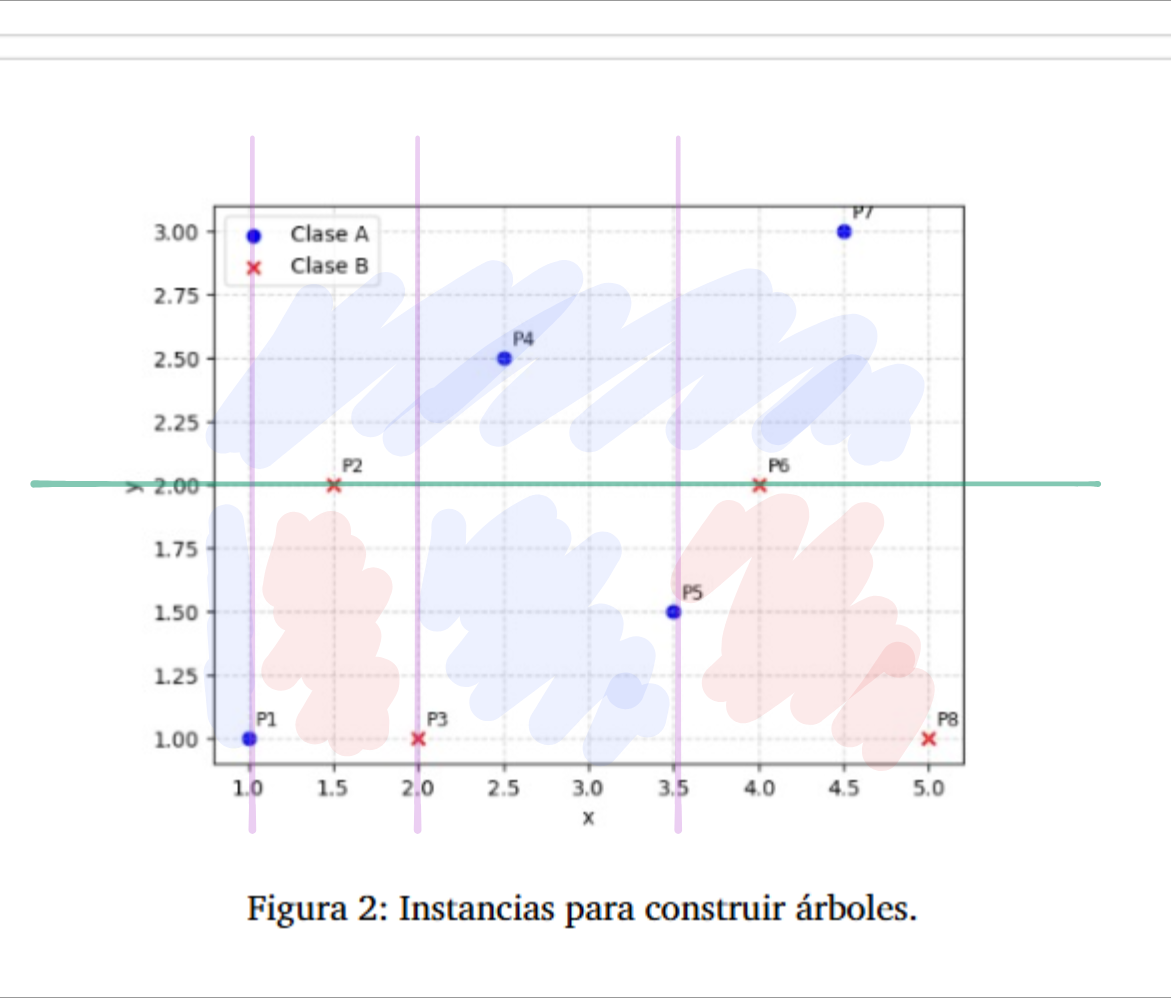
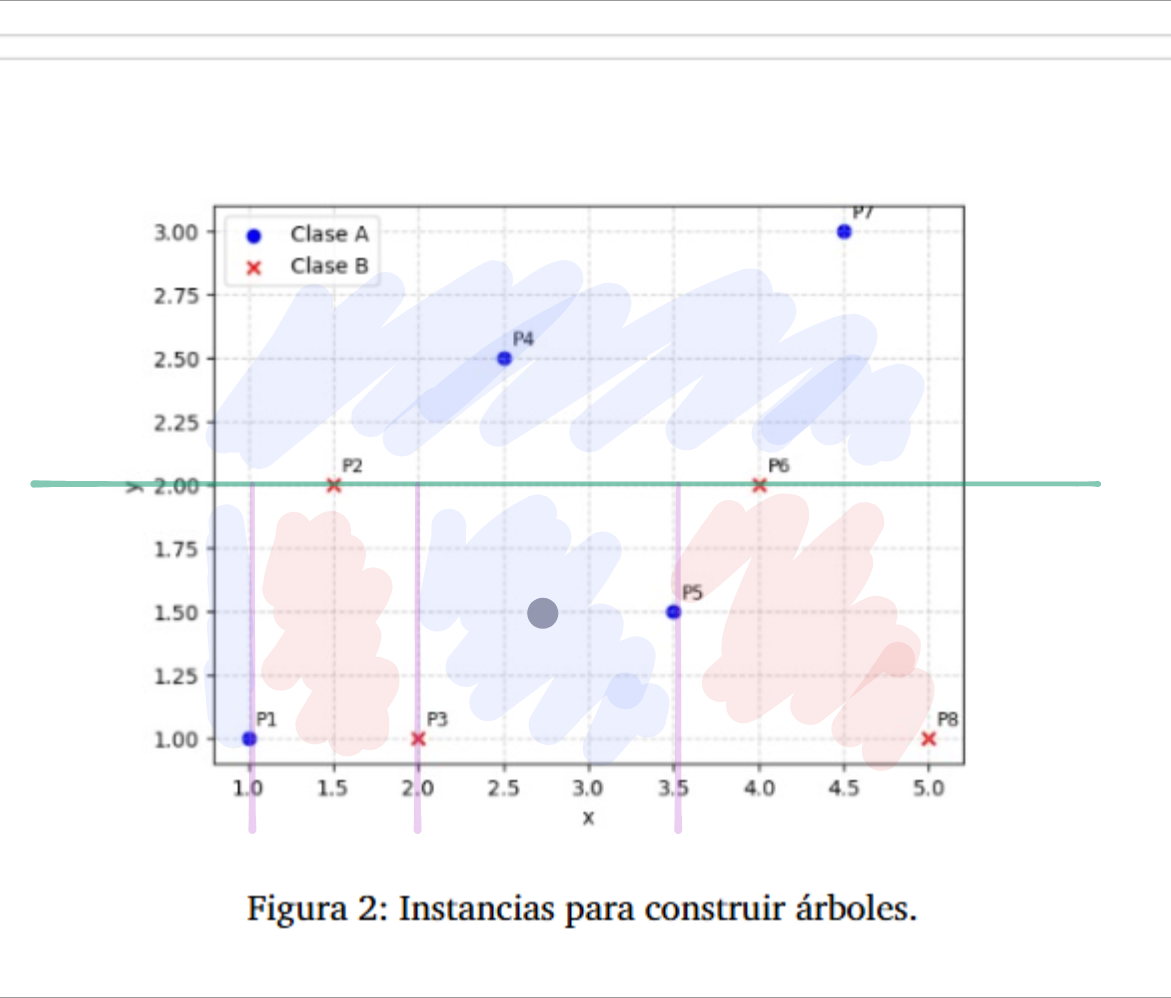
chore(guia-3) :tada: hecho todos los ejercicios practicos de la guia (falta notebooks)

Changed region(s): [[0.5534, 0.1553, 0.5841, 0.4659], [0.3382, 0.1553, 0.3689, 0.4659], [0.4304, 0.5902, 0.4919, 0.6523]]

diff --git a/guias/3/practica3.md b/guias/3/practica3.md
@@ -297,3 +297,119 @@ $\lceil log_2(1000) \rceil = 10$
 
 - Los tipos de atributos, si son continuos o discretos. 
 - Si se obtiene una buena performance sin necesidad de tener un nodo por "grupo", la altura sería menor.
+
+## Ejercicio 6
+
+### a
+
+Falso. El objetivo es encontrar el mejor clasificador. Las hojas si van a tener el valor de la clase que se está clasificando.
+Sobre la altura del árbol, que sea el más corto es parte del sesgo inductivo de la busqueda del árbol: entre 2 árboles que clasifican un conjunto de datos de la misma forma, se preferirá el más corto (siguiendo el algoritmo visto en clase).
+
+
+### b
+
+Falso. Hacen una exploración greedy donde van eligiendo en cada paso un par (atributo, valor) en el caso continuo o atributo en el caso discreto que mejor separe a los datos siguiendo cierta medida de homogeneidad (entropía, gini, etc), y sin backtracking. Por lo tanto no se recorren todos los árboles posibles, pero un subconjunto de ellos.
+
+### c
+
+Verdadero para el caso de todos los atributos con valores discretos. Falso para el caso continuo, donde se permite hacer cortes en varios valores del atributo.
+
+### d
+
+Verdadero. Volver a usar el mismo corte en una rama no va a dividir los datos.
+
+### e
+
+Si con "criterio de corte" se refiere a cuando terminar el algoritmo de busqueda, Verdadero siempre y cuando los datos de entrenamiento no tengan errores/ruido. 
+Por ejemplo no se tiene un valor máximo para la altura del árbol, entonces se puede overfittear perfectamente los datos de entranmiento.
+
+(Leyendo la siguiente pregunta, se podría poner falso aca ya que no se debe asumir nada sobre los datos de entrenamiento)
+
+### f
+
+Verdadero.
+
+## Ejercicio 7
+
+Las hojas del árbol guardan la porción de los datos de entrenamiento que caerían en dicha hoja (junto a sus etiquetas).
+
+Dada una nueva instancia, se recorre el árbol para obtener la predicción de clasificación. Al llegar a la hoja se tiene algún criterio para elegir la clase, por ejemplo votación de mayoria. El resultado de la votación es la clase predicha para la nueva instancia. Y se puede usar la proporción de cada clase que hubo de los datos de entrenamiento en la hoja para obtener el vector de probabilidades.
+
+Por ejemplo, 3 clases y la hoja agrupa 10 nodos: 6 clase A, 3 clase B y 1 clase C. 
+La predicción será A y con vector (6/10, 3/10, 1/10)
+
+## Ejercicio 8
+
+### a
+
+El sesgo inductivo del algoritmo de busqueda impone preferencias en la busqueda. En el caso de los algoritmos vistos en clase, se prefiere aquellos árboles que mayor ganancia de homogeneidad aportan. Y las medidas de homogeneidad vistas son entropía, gini, CER (clasification error rate). 
+Para el caso de entropía la interpretación es que se busca en cada paso el corte que maximice la ganancia de información (o reducción de entropía).
+
+### b
+
+Si, para el caso de empate en la medida de homogeneidad se debe tener un criterio de desempate. Dicho criterio aporta una preferencia de busqueda (y por lo tanto forma parte del sesgo inductivo).
+
+## Ejercicio 9
+
+### a
+
+```python
+def mejor_corte(S, A, deltaM):
+  # en este diccionario  guardaremos clave atributo, valor un par con el corte de mayor reducción de entropia y su entropia atributo: (corte, entropia)  
+  entropia_maxima_por_atributo = {}
+
+  for a in A:
+    # como los atributos son de valor continuo, definimos un recorrido discreto tomando el minimo y maximo y haciendo maximo 20 saltos.
+    a_min = min (S[a])
+    a_max = max (S[a])
+
+    valor_salto = (a_max - a_min) / 20
+
+    valor_c
+    max_reduccion = -1
+
+    for c in range(a_min, a_max, valor_salto):
+      aux = deltaM(S, (a, valor_salto))
+      if max_reduccion < aux:
+        max_reduccion = aux
+        valor_c = c
+
+    entropia_maxima_por_atributo[a] = (valor_c, max_reduccion)
+
+  # del diccionario devolvemos el par con la tupla que mayor reduccion de entropia genere
+  return atributo_con_mejor_reduccion_entropia(entropia_maxima_por_atributo)
+```
+
+### b
+
+Como en el mejor corte use entropia, en cada paso hay que calcular cuanta información se gana (infoGain) ponderado por la proporción de instancias que se separan.
+
+En este caso agregamos un paso mas luego de II. El II elige el mejor corte usando la función que definimos. Luego se podría mantener un diccionario global donde se va calculando la importancia de cada atributo
+
+```python
+importancia_por_atributo = {a: 0 for a in A}
+
+...
+
+# (II)
+(a, c) = mejor_corte(S, A, infoGain)
+
+# calculo de importancia
+
+importancia_por_atributo[a] += infoGain(S, (a,c))
+```
+
+Se puede hacer un poco más eficiente:
+- en (IV) se hace la separación proporcional al corte (a,c), con eso tenemos los tamaños de instancias nuevos.
+- En mejor_corte() se podría guardar el info_gain para no volver a calcularlo
+
+
+## Ejercicio 10
+
+Dado un modelo ya entrenado y el valor de su performance $S$, se toma los datos de entrenamiento, se permutan los valores de uno de los atributos $a$ y se vuelve a calular una performance $S_a$. Esto se reepite k veces dando $I_a = S - \frac{1}{k} \sum_{i=1}^k S_{a, k}$.
+
+Si el atributo es importante se esperaría que al hacer las permutaciones la performance decrezca (empeore).Entonces $I_a$ va a ser más grande. Pero si tenia poca importancia, la performance no se deberia de ver muy afectada y daría cercano a 0.
+
+El problema de esta métrica es que analiza un atributo a la vez. Si tenemos 2 atributos altamente correlacionados $x_1, x_2$, al permutar los valores de $x_1$ y calcular la performance, el modelo podría estar aprovechando la correlación con $x_2$ y asi no se obtendría un empeoramiento de la perfornmance al medirlo. Lo mismo si se permuta los valores de $x_1$. Resultando en que ambos atributos tienen poca importancia al haber obtenido un rendimiento similar al original (Se permuto los valores de un atributo y se compensó con la correlación con el otro atributo, obteniendo resultados similares al modelo original).
+
+Luego se podría estar marcando erroneamente ambos atributos como poco importantes.
